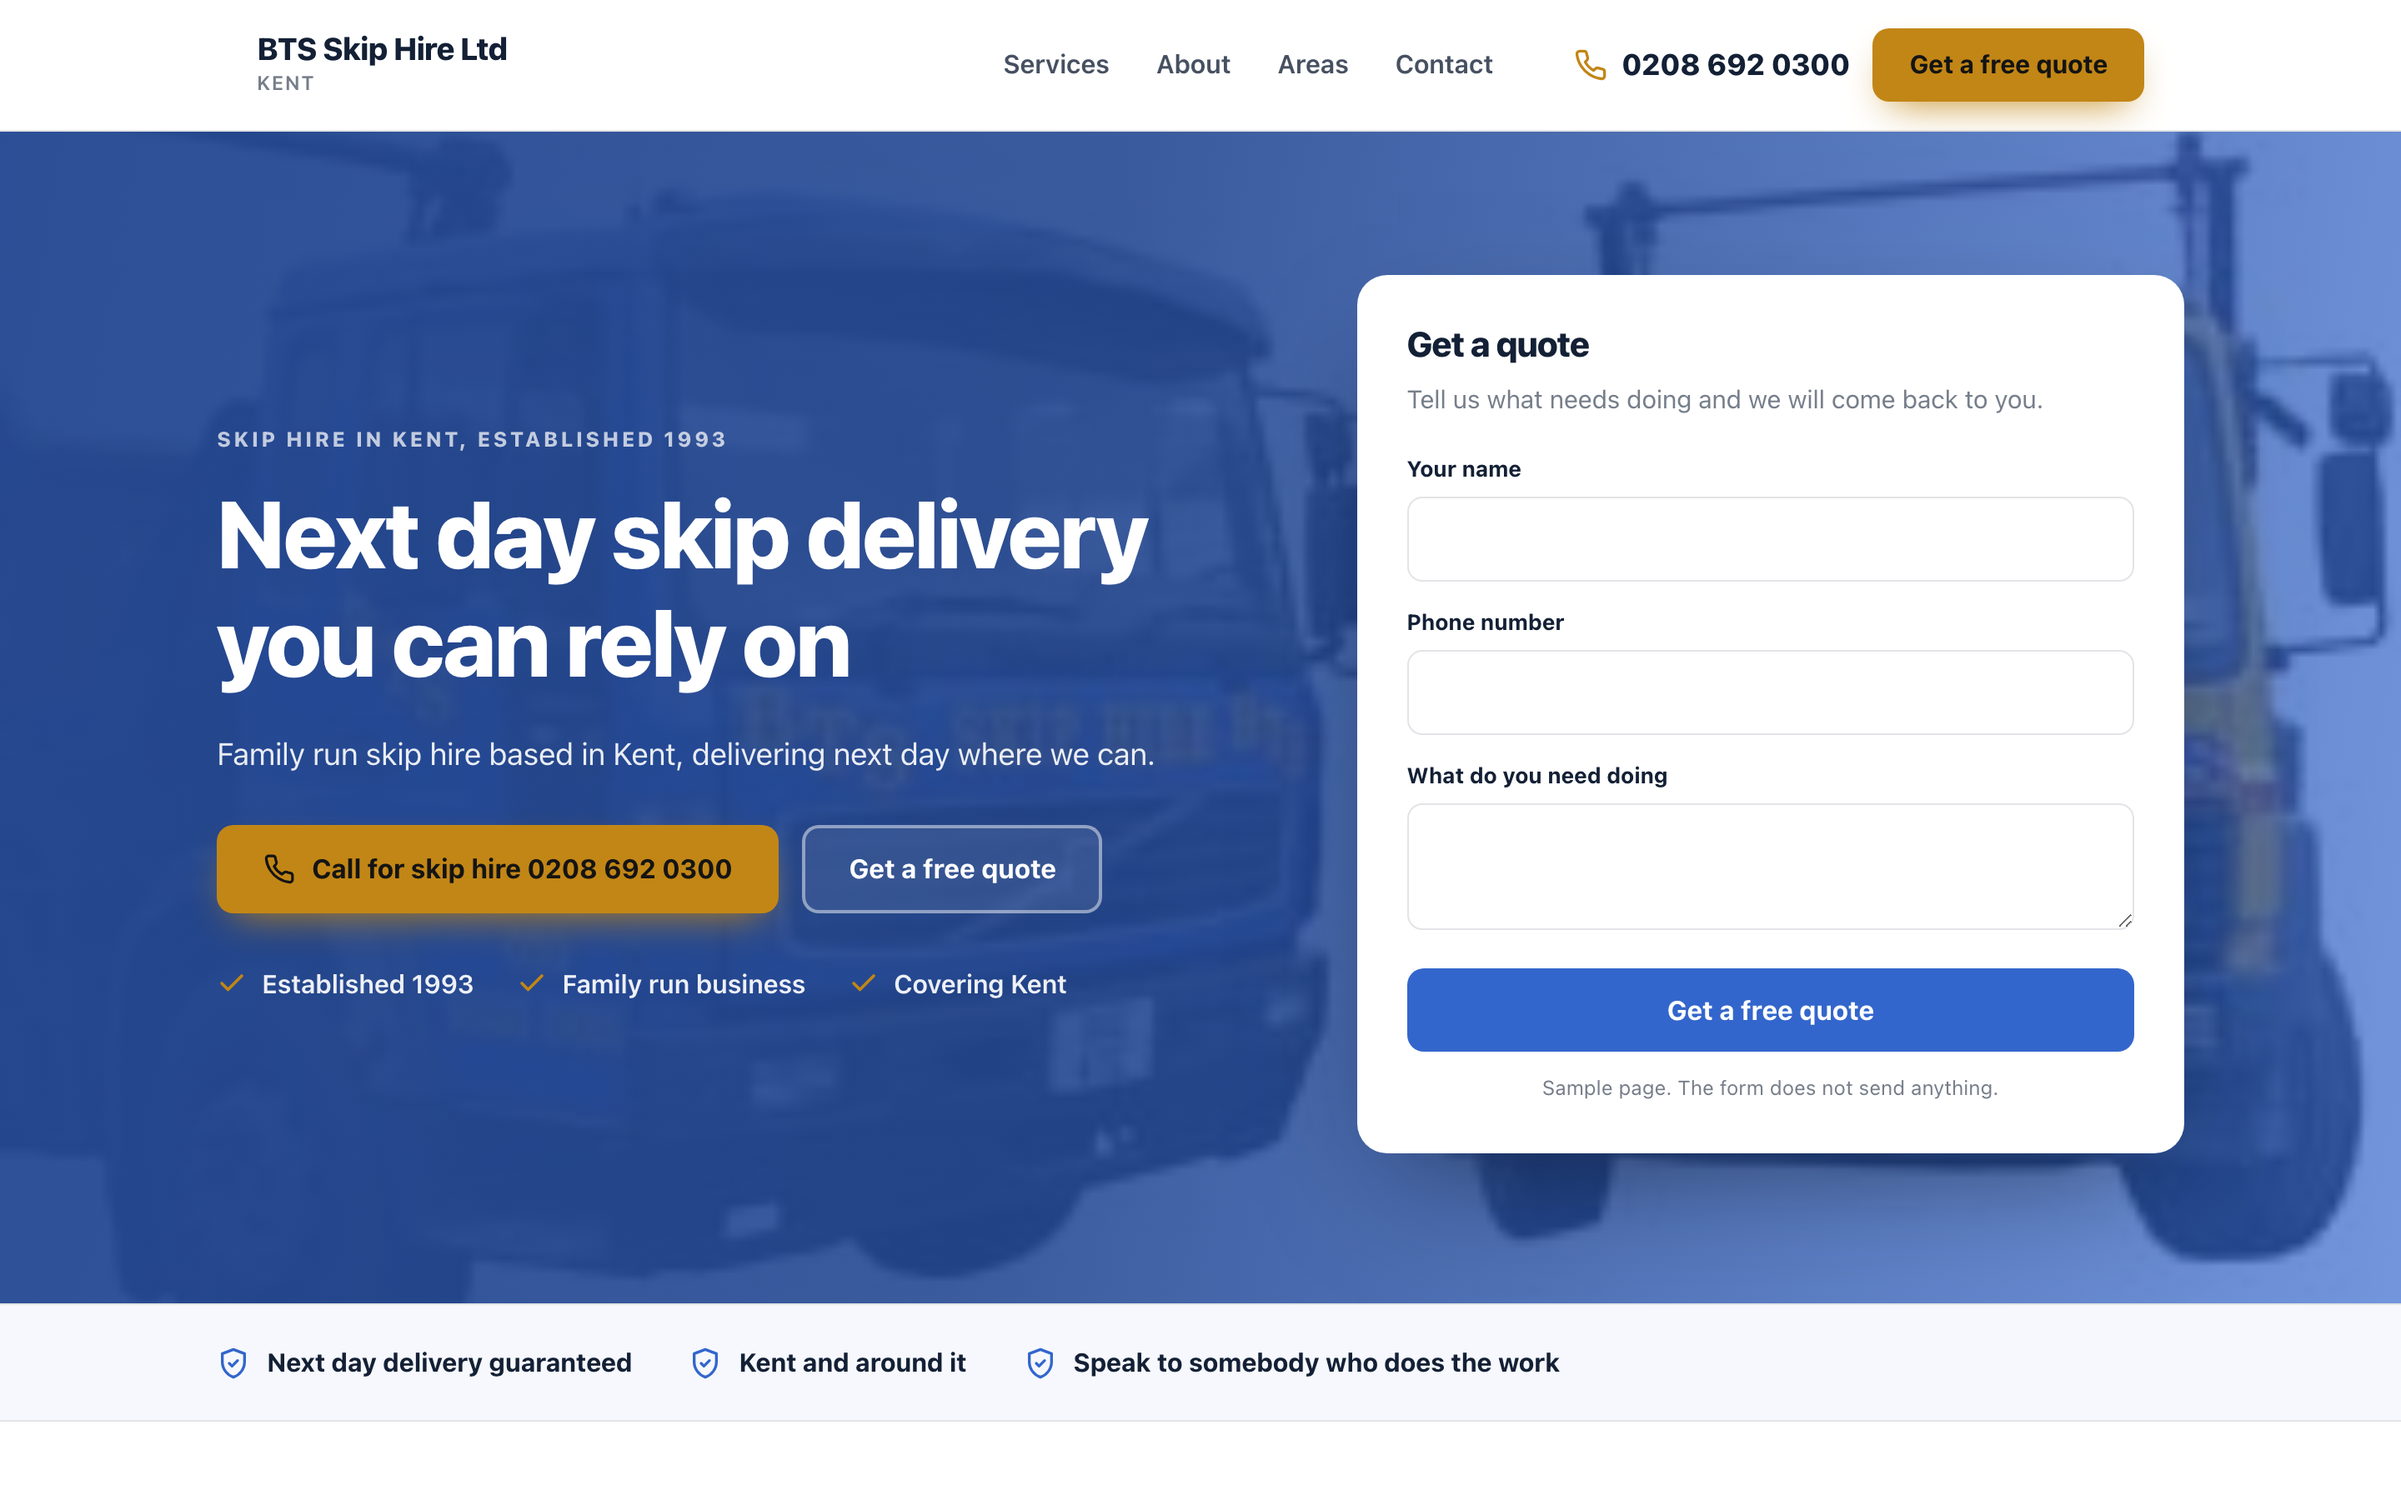
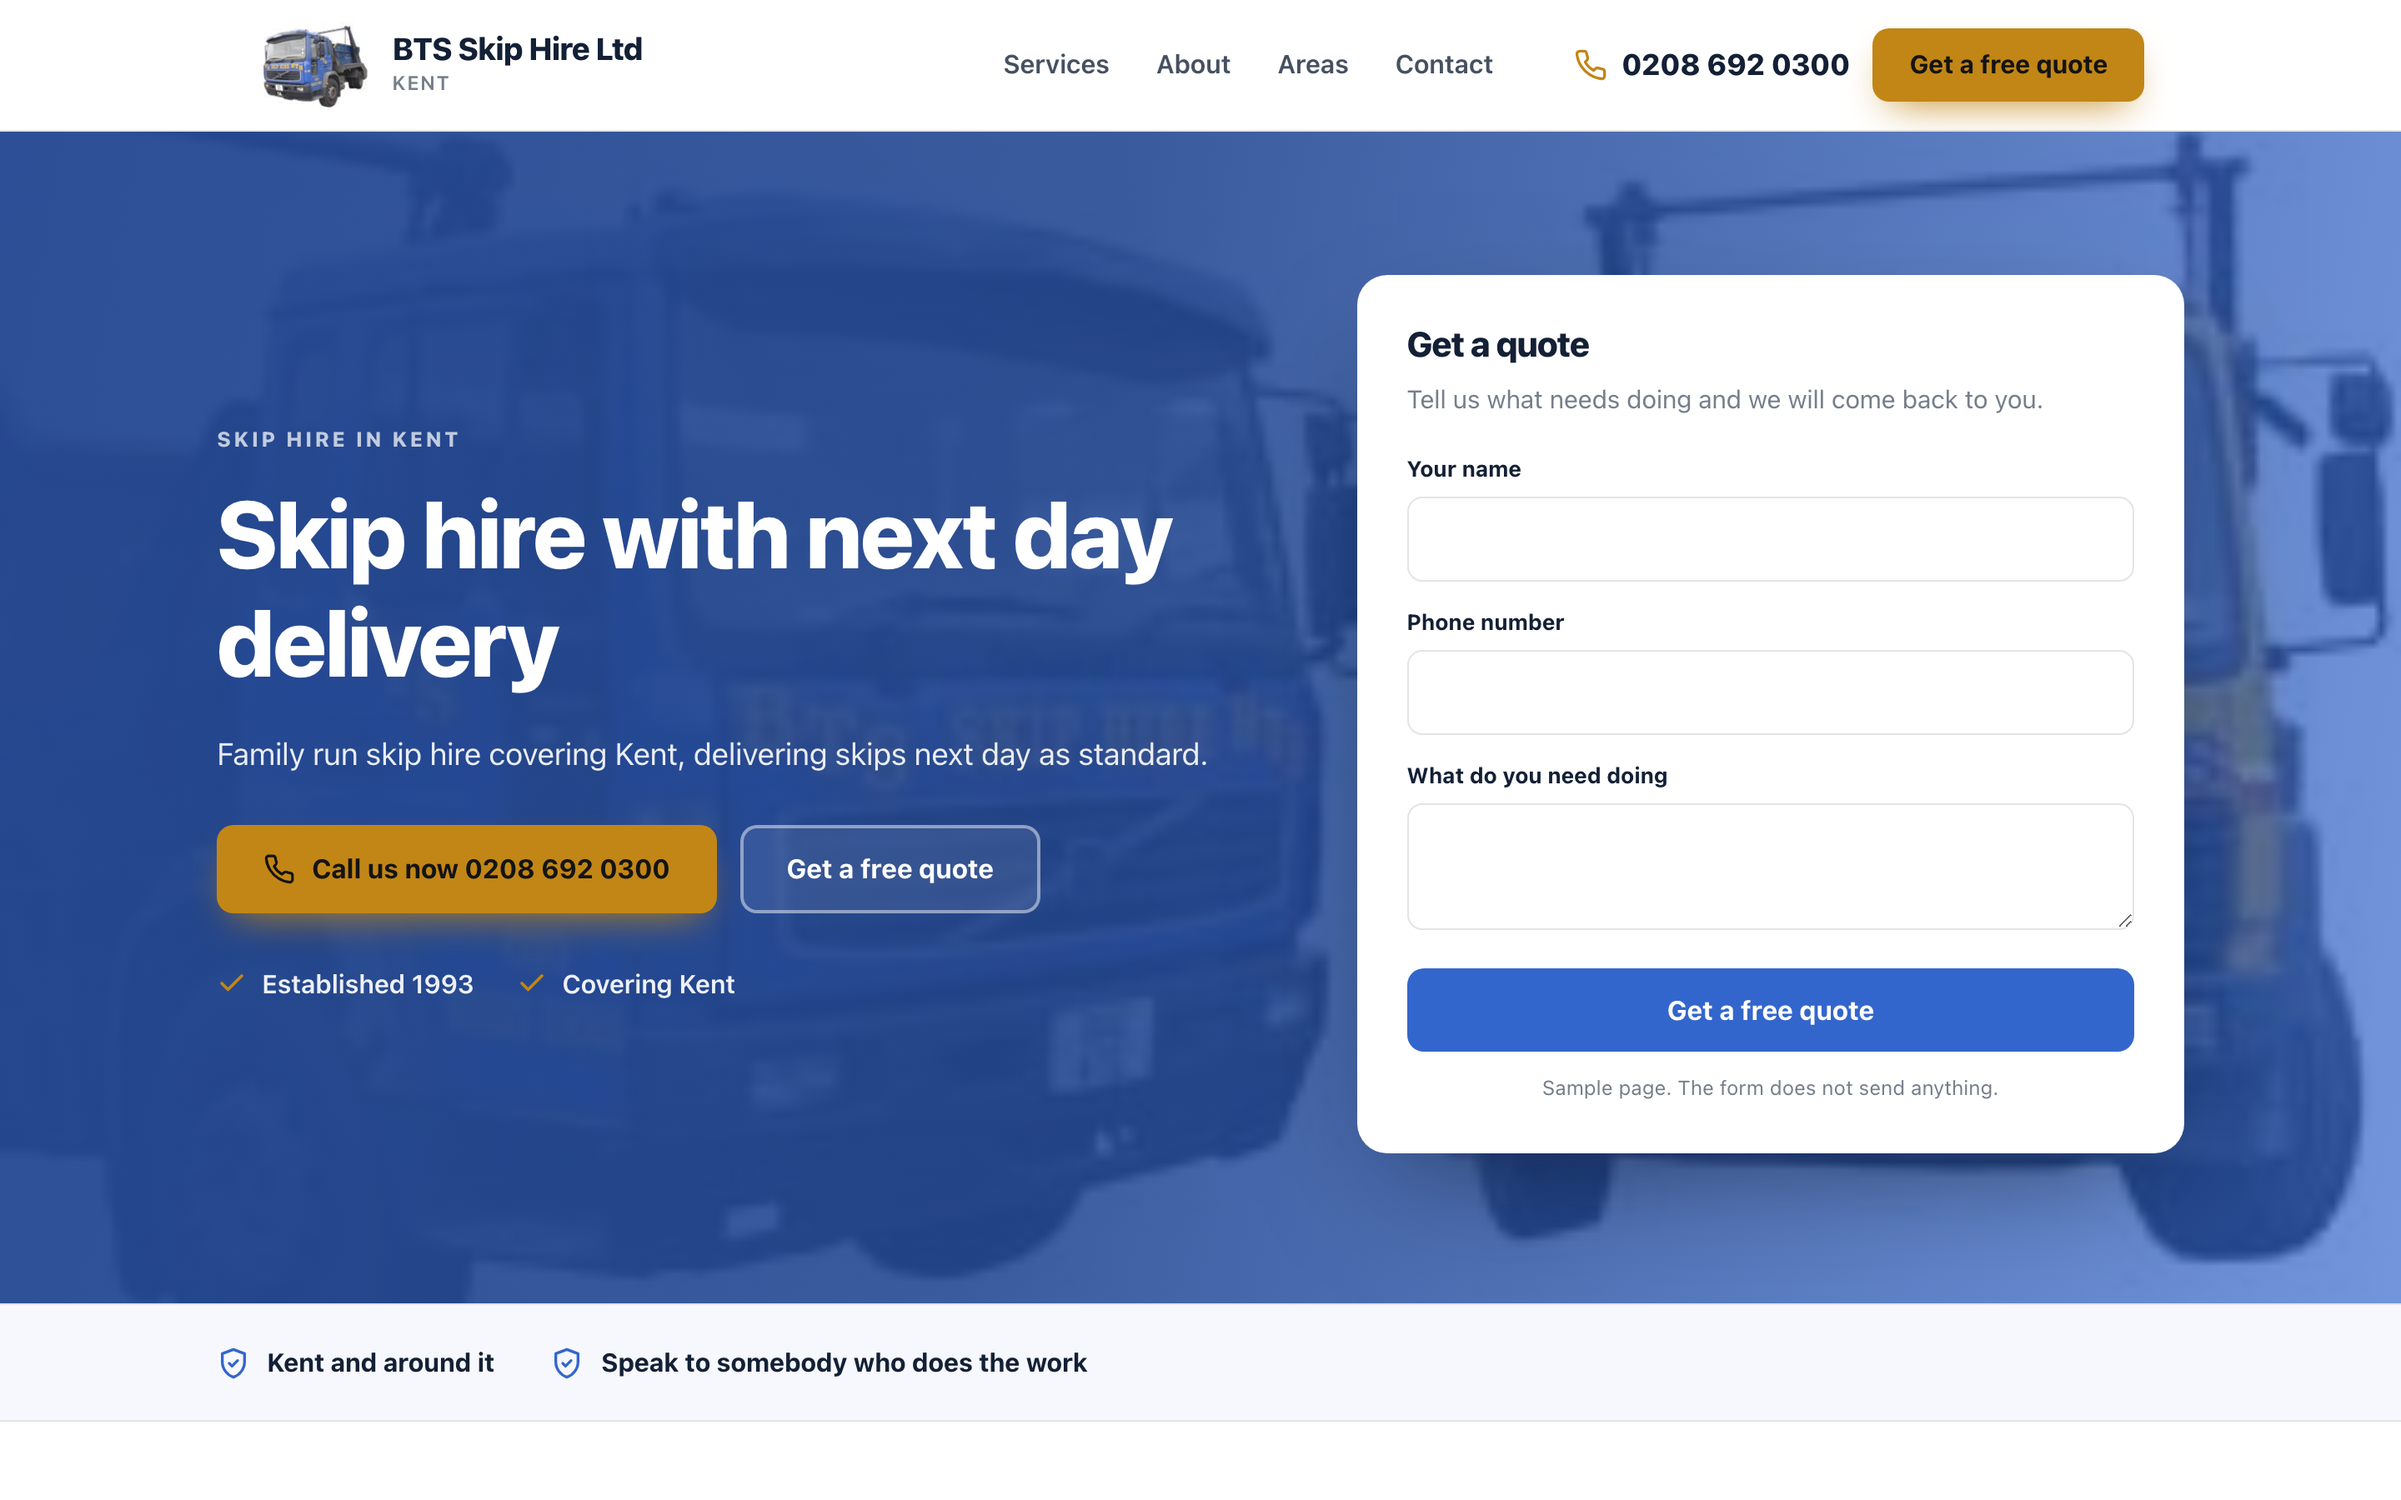
Sample homepage for BTS Skip Hire Ltd

diff --git a/docs/39c1961623/index.html b/docs/39c1961623/index.html
@@ -4,14 +4,15 @@
 <meta charset="utf-8">
 <meta name="viewport" content="width=device-width, initial-scale=1">
 <meta name="robots" content="noindex,nofollow">
+<meta name="aso-build" content="">
 <title>BTS Skip Hire Ltd sample homepage</title>
-<meta name="description" content="Family run skip hire based in Kent, delivering next day where we can.">
+<meta name="description" content="Family run skip hire covering Kent, delivering skips next day as standard.">
 <link rel="canonical" href="https://markygff.github.io/aso-mockups/39c1961623/">
 <meta property="og:type" content="website">
 <meta property="og:title" content="BTS Skip Hire Ltd sample homepage">
-<meta property="og:description" content="Family run skip hire based in Kent, delivering next day where we can.">
+<meta property="og:description" content="Family run skip hire covering Kent, delivering skips next day as standard.">
 <meta property="og:url" content="https://markygff.github.io/aso-mockups/39c1961623/">
-<meta property="og:image" content="https://www.btsskiphire.com/images/two_lorries.jpg"><style>
+<meta property="og:image" content="img/t13.jpg"><style>
 :root{
   --primary:#3366cc;
   --primary-dark:#254993;
@@ -52,7 +53,8 @@ p{margin:0}
 .nav{display:flex;gap:28px;margin-left:auto;font-weight:600;font-size:.97rem;color:var(--ink)}
 .nav span{opacity:.78}
 .header-cta{display:flex;align-items:center;gap:14px;margin-left:28px}
-.tel{display:flex;align-items:center;gap:9px;font-weight:800;font-size:1.1rem;color:var(--ink)}
+.tel{display:flex;align-items:center;gap:9px;font-weight:800;font-size:1.1rem;
+     color:var(--ink);text-decoration:none}
 .tel svg{width:20px;height:20px;color:var(--accent)}
 .header-cta .btn{padding:12px 20px;font-size:.95rem}
 
@@ -119,7 +121,7 @@ p{margin:0}
 <header class="header">
   <div class="wrap header-in">
     <div class="brand">
-      <div>
+<img src="img/logo.jpg" alt="BTS Skip Hire Ltd logo">      <div>
         <div class="brand-name">BTS Skip Hire Ltd</div>
 <div class="brand-sub">Kent</div>      </div>
     </div>
@@ -127,25 +129,25 @@ p{margin:0}
       <span>Services</span><span>About</span><span>Areas</span><span>Contact</span>
     </nav>
     <div class="header-cta">
-      <span class="tel"><svg viewBox="0 0 24 24" fill="none" stroke="currentColor" stroke-width="2" stroke-linecap="round" stroke-linejoin="round" aria-hidden="true"><path d="M22 16.9v3a2 2 0 0 1-2.2 2 19.8 19.8 0 0 1-8.6-3.1 19.5 19.5 0 0 1-6-6 19.8 19.8 0 0 1-3.1-8.7A2 2 0 0 1 4.1 2h3a2 2 0 0 1 2 1.7c.1 1 .4 1.9.7 2.8a2 2 0 0 1-.5 2.1L8.1 9.9a16 16 0 0 0 6 6l1.3-1.2a2 2 0 0 1 2.1-.5c.9.3 1.8.6 2.8.7a2 2 0 0 1 1.7 2z"/></svg><span>0208 692 0300</span></span>
+      <a class="tel" href="tel:+442086920300"><svg viewBox="0 0 24 24" fill="none" stroke="currentColor" stroke-width="2" stroke-linecap="round" stroke-linejoin="round" aria-hidden="true"><path d="M22 16.9v3a2 2 0 0 1-2.2 2 19.8 19.8 0 0 1-8.6-3.1 19.5 19.5 0 0 1-6-6 19.8 19.8 0 0 1-3.1-8.7A2 2 0 0 1 4.1 2h3a2 2 0 0 1 2 1.7c.1 1 .4 1.9.7 2.8a2 2 0 0 1-.5 2.1L8.1 9.9a16 16 0 0 0 6 6l1.3-1.2a2 2 0 0 1 2.1-.5c.9.3 1.8.6 2.8.7a2 2 0 0 1 1.7 2z"/></svg><span>0208 692 0300</span></a>
       <span class="btn btn-accent">Get a free quote</span>
     </div>
   </div>
 </header>
 
 <section class="hero">
-  <div class="hero-bg"><img src="https://www.btsskiphire.com/images/two_lorries.jpg" alt="two lorries" width="1600" height="900"></div>
+  <div class="hero-bg"><img src="img/t13.jpg" alt="two lorries" width="1600" height="900"></div>
   <div class="wrap hero-in">
     <div>
-      <p class="eyebrow">Skip hire in Kent, established 1993</p>
-      <h1>Next day skip delivery you can rely on</h1>
-      <p class="hero-sub">Family run skip hire based in Kent, delivering next day where we can.</p>
+      <p class="eyebrow">Skip hire in Kent</p>
+      <h1>Skip hire with next day delivery</h1>
+      <p class="hero-sub">Family run skip hire covering Kent, delivering skips next day as standard.</p>
       <div class="hero-actions">
-        <span class="btn btn-accent"><svg viewBox="0 0 24 24" fill="none" stroke="currentColor" stroke-width="2" stroke-linecap="round" stroke-linejoin="round" aria-hidden="true"><path d="M22 16.9v3a2 2 0 0 1-2.2 2 19.8 19.8 0 0 1-8.6-3.1 19.5 19.5 0 0 1-6-6 19.8 19.8 0 0 1-3.1-8.7A2 2 0 0 1 4.1 2h3a2 2 0 0 1 2 1.7c.1 1 .4 1.9.7 2.8a2 2 0 0 1-.5 2.1L8.1 9.9a16 16 0 0 0 6 6l1.3-1.2a2 2 0 0 1 2.1-.5c.9.3 1.8.6 2.8.7a2 2 0 0 1 1.7 2z"/></svg>Call for skip hire 0208 692 0300</span>
+        <span class="btn btn-accent"><svg viewBox="0 0 24 24" fill="none" stroke="currentColor" stroke-width="2" stroke-linecap="round" stroke-linejoin="round" aria-hidden="true"><path d="M22 16.9v3a2 2 0 0 1-2.2 2 19.8 19.8 0 0 1-8.6-3.1 19.5 19.5 0 0 1-6-6 19.8 19.8 0 0 1-3.1-8.7A2 2 0 0 1 4.1 2h3a2 2 0 0 1 2 1.7c.1 1 .4 1.9.7 2.8a2 2 0 0 1-.5 2.1L8.1 9.9a16 16 0 0 0 6 6l1.3-1.2a2 2 0 0 1 2.1-.5c.9.3 1.8.6 2.8.7a2 2 0 0 1 1.7 2z"/></svg>Call us now 0208 692 0300</span>
         <span class="btn btn-ghost">Get a free quote</span>
       </div>
       <ul class="hero-bullets">
-<li><svg viewBox="0 0 24 24" fill="none" stroke="currentColor" stroke-width="2.4" stroke-linecap="round" stroke-linejoin="round" aria-hidden="true"><path d="M20 6 9 17l-5-5"/></svg><span>Established 1993</span></li><li><svg viewBox="0 0 24 24" fill="none" stroke="currentColor" stroke-width="2.4" stroke-linecap="round" stroke-linejoin="round" aria-hidden="true"><path d="M20 6 9 17l-5-5"/></svg><span>Family run business</span></li><li><svg viewBox="0 0 24 24" fill="none" stroke="currentColor" stroke-width="2.4" stroke-linecap="round" stroke-linejoin="round" aria-hidden="true"><path d="M20 6 9 17l-5-5"/></svg><span>Covering Kent</span></li>      </ul>
+<li><svg viewBox="0 0 24 24" fill="none" stroke="currentColor" stroke-width="2.4" stroke-linecap="round" stroke-linejoin="round" aria-hidden="true"><path d="M20 6 9 17l-5-5"/></svg><span>Established 1993</span></li><li><svg viewBox="0 0 24 24" fill="none" stroke="currentColor" stroke-width="2.4" stroke-linecap="round" stroke-linejoin="round" aria-hidden="true"><path d="M20 6 9 17l-5-5"/></svg><span>Covering Kent</span></li>      </ul>
     </div>
     <div class="quote-card">
       <h3>Get a quote</h3>
@@ -161,7 +163,6 @@ p{margin:0}
 
 <div class="strip">
   <div class="wrap strip-in">
-    <div class="strip-item"><svg viewBox="0 0 24 24" fill="none" stroke="currentColor" stroke-width="2" stroke-linecap="round" stroke-linejoin="round" aria-hidden="true"><path d="M12 2 4 5v6c0 5 3.4 9.4 8 11 4.6-1.6 8-6 8-11V5z"/><path d="m9 12 2 2 4-4"/></svg><span>Next day delivery guaranteed</span></div>
     <div class="strip-item"><svg viewBox="0 0 24 24" fill="none" stroke="currentColor" stroke-width="2" stroke-linecap="round" stroke-linejoin="round" aria-hidden="true"><path d="M12 2 4 5v6c0 5 3.4 9.4 8 11 4.6-1.6 8-6 8-11V5z"/><path d="m9 12 2 2 4-4"/></svg><span>Kent and around it</span></div>
     <div class="strip-item"><svg viewBox="0 0 24 24" fill="none" stroke="currentColor" stroke-width="2" stroke-linecap="round" stroke-linejoin="round" aria-hidden="true"><path d="M12 2 4 5v6c0 5 3.4 9.4 8 11 4.6-1.6 8-6 8-11V5z"/><path d="m9 12 2 2 4-4"/></svg><span>Speak to somebody who does the work</span></div>
   </div>
@@ -172,13 +173,13 @@ p{margin:0}
     <div class="services-head">
       <p class="eyebrow">What we do</p>
       <h2>BTS Skip Hire Ltd, Kent</h2>
-      <p>Family run skip hire based in Kent, delivering next day where we can.</p>
+      <p>Family run skip hire covering Kent, delivering skips next day as standard.</p>
     </div>
     <div class="grid">
       <article class="card">
         <div class="icon"><svg viewBox="0 0 24 24" fill="none" stroke="currentColor" stroke-width="2" stroke-linecap="round" stroke-linejoin="round" aria-hidden="true"><path d="M14.7 6.3a4 4 0 0 0 5.3 5.3l-8 8a3 3 0 0 1-4.2-4.2z"/><path d="m14.7 6.3 3-3"/></svg></div>
         <h3>BTS Skips Ltd</h3>
-        <p>We guarantee next day delivery, subject to skip licences.</p>
+        <p>Skip hire delivered fast, with next day delivery guaranteed.</p>
       </article>
       <article class="card">
         <div class="icon"><svg viewBox="0 0 24 24" fill="none" stroke="currentColor" stroke-width="2" stroke-linecap="round" stroke-linejoin="round" aria-hidden="true"><path d="M13 2 4 14h7l-1 8 9-12h-7z"/></svg></div>
@@ -188,12 +189,7 @@ p{margin:0}
       <article class="card">
         <div class="icon"><svg viewBox="0 0 24 24" fill="none" stroke="currentColor" stroke-width="2" stroke-linecap="round" stroke-linejoin="round" aria-hidden="true"><path d="M3 10.5 12 3l9 7.5"/><path d="M5 9.5V21h14V9.5"/><path d="M10 21v-6h4v6"/></svg></div>
         <h3>BTS Skips Ltd</h3>
-        <p>A family run business covering Kent and the surrounding areas.</p>
-      </article>
-      <article class="card">
-        <div class="icon"><svg viewBox="0 0 24 24" fill="none" stroke="currentColor" stroke-width="2" stroke-linecap="round" stroke-linejoin="round" aria-hidden="true"><path d="M4 20 15 9"/><path d="m14 4 6 6-3 3-6-6z"/><path d="m3 15 6 6"/></svg></div>
-        <h3>BTS Skips Ltd</h3>
-        <p>Fully registered and licensed to operate as waste carriers.</p>
+        <p>Fully registered and licensed waste carriers.</p>
       </article>
     </div>
   </div>
